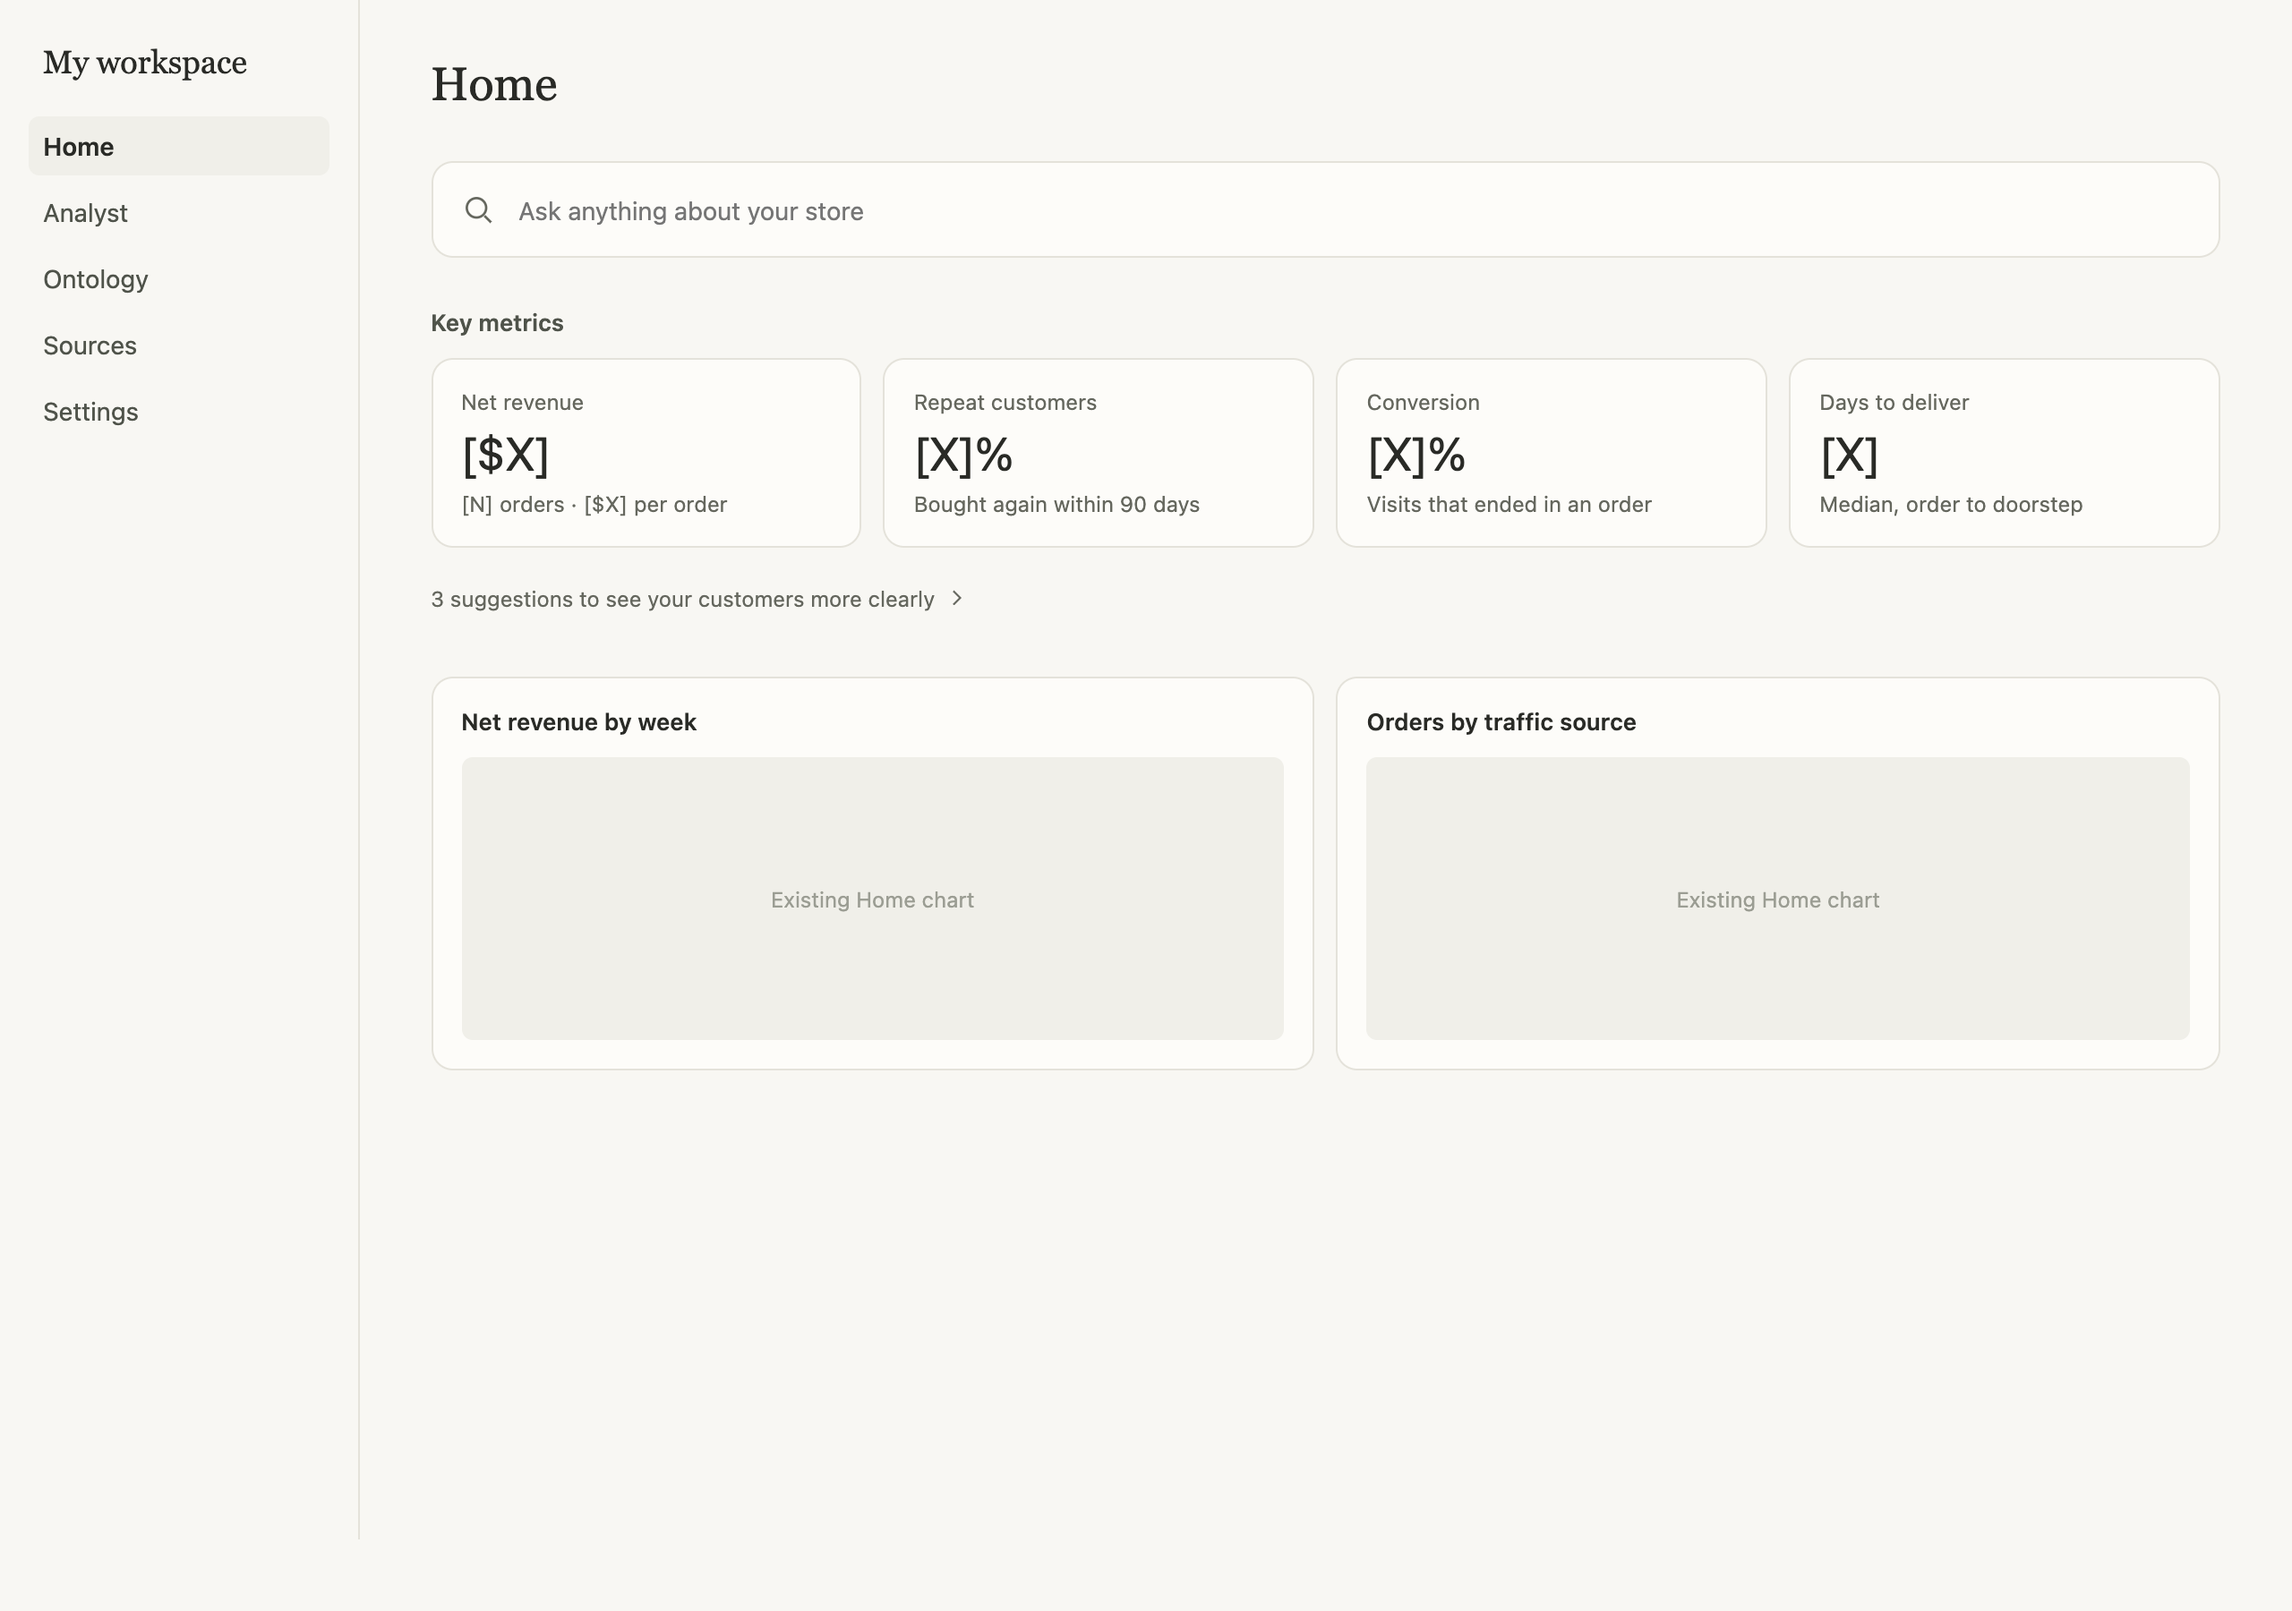
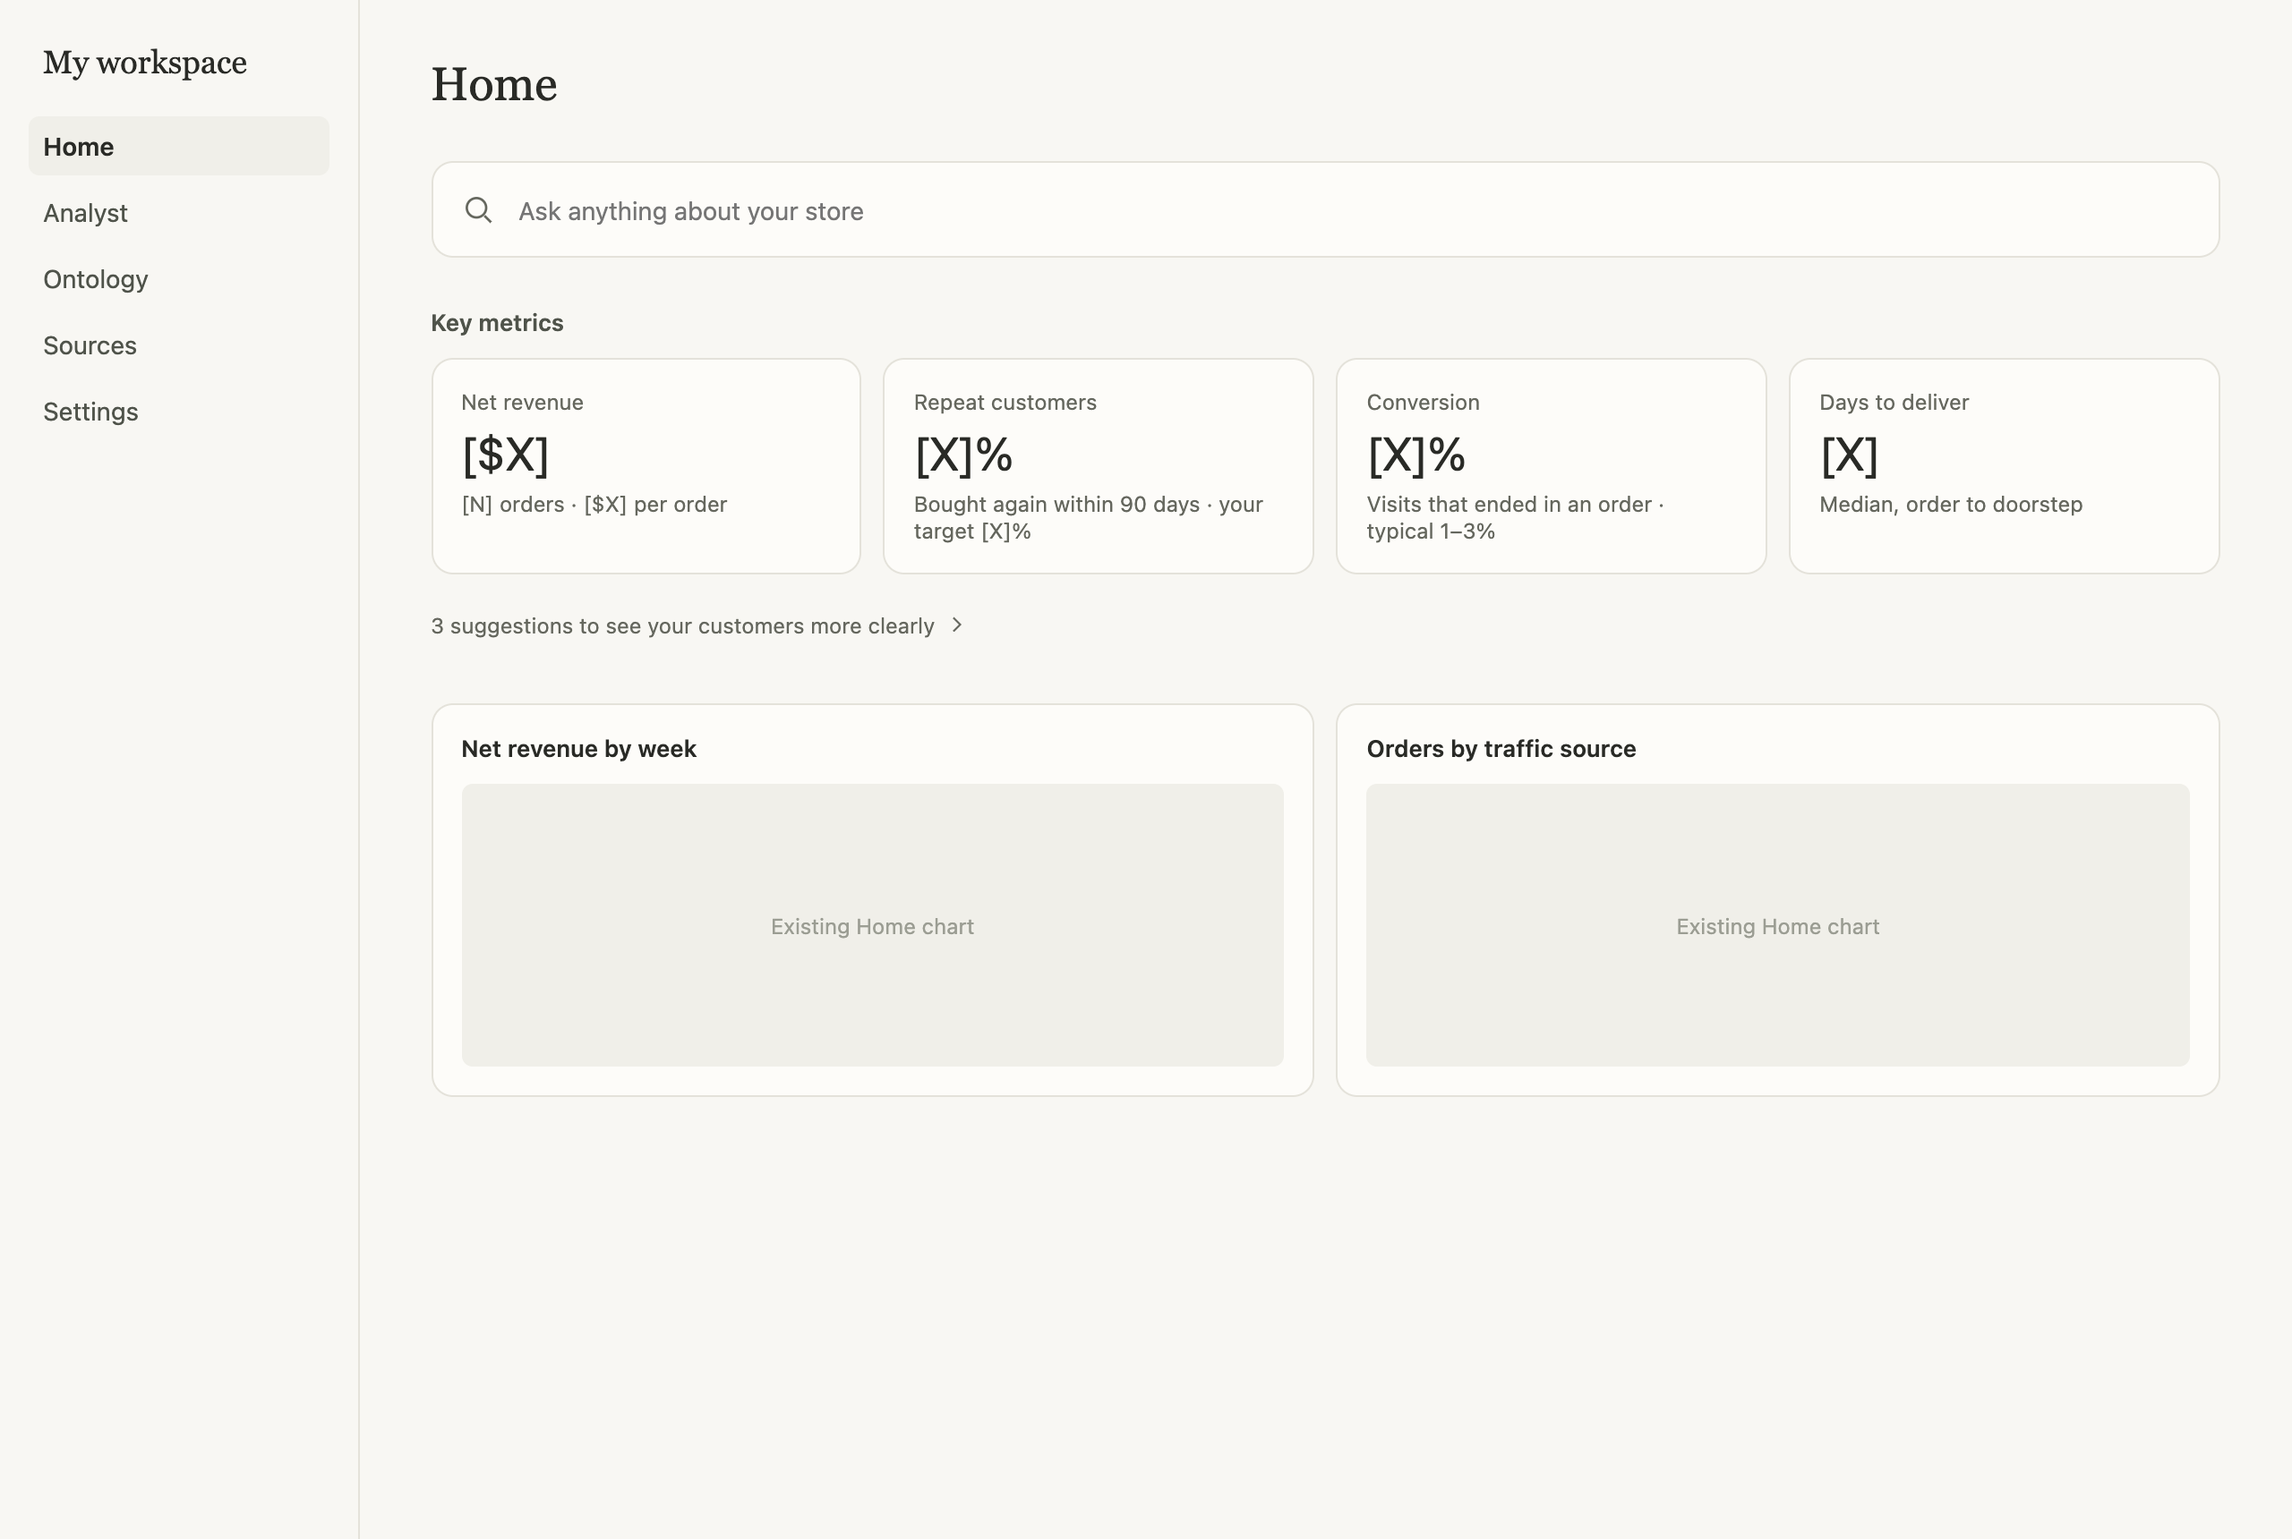
Let owners name any industry and add knowledge: targets, normal ranges, facts

diff --git a/docs/industries/README.md b/docs/industries/README.md
@@ -9,19 +9,21 @@ Playbooks live in this folder, one markdown file per industry, about 3–4 pages
 Three layers, each with one owner and one job.
 
 ```text
- Playbook (this folder)          Workspace profile (stored)           Recommendations (computed)
- ─────────────────────           ──────────────────────────           ──────────────────────────
- versioned with the code    ──▶  industry, branch, role,         ──▶  ranked list for the
- opinion: areas, roles,          concept mapping, definitions,        Ontology section, Home,
- metrics, checks, advice,        interests learned from questions,    Analyst and #53 findings
- insight rules, glossary         gaps, dismissals, notes
+ Playbook                         Workspace profile (stored)           Recommendations (computed)
+ ────────                         ──────────────────────────           ──────────────────────────
+ built in (this folder), or  ──▶  industry, branch, role,         ──▶  ranked suggestions for the
+ drafted for any industry         concept mapping, definitions,        Ontology page, Home, the
+ the user names: areas,           knowledge (normal ranges,            Analyst and #53 findings
+ roles, metrics, checks,          targets, facts), interests,
+ advice, normal ranges            gaps, dismissals
 ```
 
-1. **Playbook: the opinion.** Read-only, shipped with the app, reviewed like code. It never contains a workspace's data. The frontmatter is what code reads; the prose is what people review and what the model reads, one branch at a time.
+1. **Playbook: the opinion.** Either built in (a file in this folder, shipped with the app, reviewed like code) or **drafted for this workspace** when the owner names an industry that has no built-in playbook (see "Any industry"). A playbook never contains a workspace's data. The frontmatter is what code reads; the prose is what people review and what the model reads, one branch at a time.
 2. **Workspace profile: what is true for this business.** One stored resource per workspace (`industry-profile`), plus a small per-person part for role and interests. It records:
-   - the inferred industry, business-model branch and stage (never asked for; changeable in Settings);
+   - the industry, as inferred or as typed by the owner in their own words, with its business-model branch and stage;
    - the **concept mapping**: which entity and column plays each playbook role (order, customer, amount, order date, traffic source, ...), with how it was found (detected, AI, or changed by the owner);
    - **definitions** Foundry assumed or the owner changed, for example "an order counts when it is completed, not when it is placed";
+   - **knowledge**: normal ranges, targets and facts about the business (see "Knowledge");
    - **interests** learned from questions (see below);
    - **gaps** found from questions that could not be answered;
    - dismissed and completed recommendations, and the playbook version it was built from.
@@ -31,7 +33,42 @@ Three layers, each with one owner and one job.
    - **Fix the data** already here (links, duplicates, definitions);
    - **Ask** a question the data can now answer well.
 
-Detection, mapping and checks are deterministic, so the whole thing works with no AI. AI only confirms detection, proposes mappings the rules missed, and classifies questions.
+Detection, mapping and checks are deterministic, so the whole thing works with no AI. AI only confirms detection, drafts a playbook for an industry with no built-in one, proposes mappings the rules missed, classifies questions, and picks up knowledge from what people tell the Analyst.
+
+## Any industry
+
+Built-in playbooks are a head start, not a limit. The owner can name **any** industry, in their own words, for example "specialty coffee roaster selling wholesale and online" or "B2B office furniture". Nothing prompts for it: it is an optional field in Settings, and the Analyst also picks it up when someone says it ("we're a coffee roaster").
+
+- **A built-in playbook fits:** it is used, and the owner's words refine the branch. A coffee roaster selling online is online retail, with wholesale as a second channel.
+- **None fits:** Foundry drafts a playbook for this workspace with AI, in the same format and sections, from the industry the owner named and the accepted ontology. The draft is validated like a built-in one: every role must map to real entities or columns, every metric must compile, and every check must use a known kind. Anything that fails is dropped rather than guessed.
+- **No AI:** the generic reading stays, and the typed industry is still stored as context for later.
+- A drafted playbook is stored with the workspace, marked as drafted, and improves the same way the profile does. A built-in playbook for that industry, if one ships later, is offered as a quiet replacement under "Worth checking".
+- The owner can expand any playbook by adding knowledge (below); they never have to edit markdown.
+
+## Knowledge
+
+Knowledge is what Foundry uses to judge whether a number is good, not just what it is. Each entry has a kind, a value, the metric or area it belongs to, and a source.
+
+| Kind | Example | Used for |
+| --- | --- | --- |
+| **Normal range** | Conversion is typically 1–3% for online retail | "Your conversion is below the typical range" |
+| **Target** | Our target return rate is 8% | Findings and Home compare against the target before the normal range |
+| **Seasonality** | Sales roughly double in the Black Friday week | Not flagging the expected spike, and comparing like with like |
+| **Fact** | We stopped shipping to Canada in March | Explaining a drop instead of flagging it |
+| **Definition** | Returns aren't sales | Every metric and answer |
+
+Where knowledge comes from, in order of precedence:
+
+1. **The owner or their team** (source *You*): added in Settings, or by telling the Analyst ("our normal return rate is about 10%" or "remember that we pause ads in August"). The Analyst saves it and says so in one muted line.
+2. **Learned** (source *Learned*): proposed by Foundry from the data itself, for example a weekly pattern that repeats every year. Applied quietly, listed with its source, removable.
+3. **The playbook** (source *Playbook*): indicative normal ranges for the industry, always labelled as typical, with the caveat that they vary by category, region and price point.
+
+Rules:
+
+- A number is never called good or bad on a normal range alone when a target exists; the owner's target wins.
+- Normal ranges are shown as "typical", never as facts about the business, and never as precise benchmarks.
+- Every entry shows its source and can be changed or removed; removing one never removes another.
+- Knowledge is workspace-wide. Nothing typed here leaves the workspace except as context for the AI provider the workspace already uses.
 
 ## How the profile evolves
 
@@ -42,6 +79,7 @@ The playbook is fixed; the profile is not. It changes from four kinds of evidenc
 | **Questions asked** in the Analyst or by voice | Each question is classified into playbook areas and metrics. Areas asked about often rise in priority for that person, and the metrics they keep asking about move up on Home. |
 | **Questions that could not be answered well** (missing table, missing column, broken link, low confidence) | Recorded as a gap with the question as evidence. Repeated gaps become **Connect** or **Change your system** recommendations quoting the questions: "You asked about ad spend 4 times this month." |
 | **Corrections** in answers or the Ontology section ("returns aren't sales") | Saved as workspace definitions; every later metric, answer and finding uses them. |
+| **Knowledge the owner adds** (a normal range, target, seasonality or fact) | Saved as knowledge with source *You*; findings and Home compare against it. |
 | **New data** (a sync, a new source, a rebuilt ontology) | Mapping and checks re-run; recommendations it satisfied are marked done, and newly possible questions are suggested. |
 
 Rules that keep this predictable:
@@ -77,6 +115,8 @@ checks:                      # coverage and data-health checks
   - { id: orders_link_customers, kind: link, from: order, to: customer, good: 0.95 }
 advice:                      # recommendations, tied to the gap they close
   - { id: utm, kind: change, when: "missing session.campaign", area: marketing }
+normal:                      # indicative normal ranges, always shown as "typical"
+  conversion_rate: { low: 0.01, high: 0.03, note: "varies by category and price point" }
 branches:                    # personalisation
   model: [direct, multi_brand, marketplace, subscription]
   role: [founder, operations, marketing, finance]
@@ -96,6 +136,7 @@ The prose follows the same sections in the same order, so playbooks are easy to 
 9. Insight rules
 10. Glossary
 11. Branches
+12. Normal ranges
 
 ## Adding an industry
 

diff --git a/docs/industries/ecommerce.md b/docs/industries/ecommerce.md
@@ -86,6 +86,12 @@ advice:
   - { id: delivery_promise, kind: change, area: experience, when: "missing promise" }
   - { id: product_cost, kind: change, area: cost, when: "missing unit_cost" }
   - { id: one_customer_id, kind: change, area: customers, when: "high duplicate_customers" }
+normal:
+  conversion_rate: { low: 0.01, high: 0.03, note: "sessions that end in an order; higher for repeat visitors and low-price items" }
+  cart_abandonment: { low: 0.6, high: 0.8, note: "carts that never reach an order" }
+  return_rate: { low: 0.1, high: 0.2, note: "by order count; apparel and footwear often 20-30%, electronics and home lower" }
+  repeat_rate: { low: 0.2, high: 0.3, note: "buyers who order again within a year" }
+  delivery_days: { low: 3, high: 5, note: "standard domestic shipping" }
 branches:
   model: [direct, multi_brand, marketplace, subscription]
   role: [founder, operations, marketing, finance]
@@ -93,6 +99,8 @@ branches:
 ---
 
 # Online retail
+
+> This playbook is a starting point. The owner can name their industry in their own words in Settings, or tell the Analyst, and add their own targets, normal ranges and facts; those always win over the ranges here.
 
 Online retail sells products to customers through a store, an app or a marketplace, and ships them. The business works when enough of the right people visit, enough of them buy, they buy again, and each order makes money after products, discounts, shipping and returns. Everything below follows from that sentence.
 
@@ -244,3 +252,21 @@ Branches change the defaults; only the chosen branch reaches the model. Every br
 - **Stage**
   - *Early:* new customers, conversion and cost per new customer come first.
   - *Established:* repeat rate, margin and concentration come first.
+
+## 12. Normal ranges
+
+Indicative ranges that help Foundry say whether a number looks usual. They are rules of thumb that vary a lot by category, region, price point and traffic mix. Foundry shows them as "typical", never as facts about this business, and an owner's own target or range always replaces them.
+
+| Metric | Typical | Notes |
+| --- | --- | --- |
+| Conversion rate | 1–3% | Sessions that end in an order. Higher for repeat visitors and cheaper items; lower on mobile. |
+| Cart abandonment | 60–80% | Carts that never become an order. |
+| Return rate | 10–20% | By order count. Apparel and footwear often 20–30%; electronics and home goods lower. |
+| Repeat-customer rate | 20–30% | Buyers who order again within a year. |
+| Days to deliver | 3–5 | Standard domestic shipping. |
+
+How they are used:
+
+- A finding can say "conversion is [X]%, below the typical 1–3% for online retail" only when no target is set and the metric is computed from complete periods.
+- On Home, a metric can carry a small grey "typical 1–3%" under its value; nothing is coloured red or green on a normal range alone.
+- When the owner adds their own knowledge, for example "our target return rate is 8%" or "Black Friday week doubles sales", it is stored with source *You* and used first.
